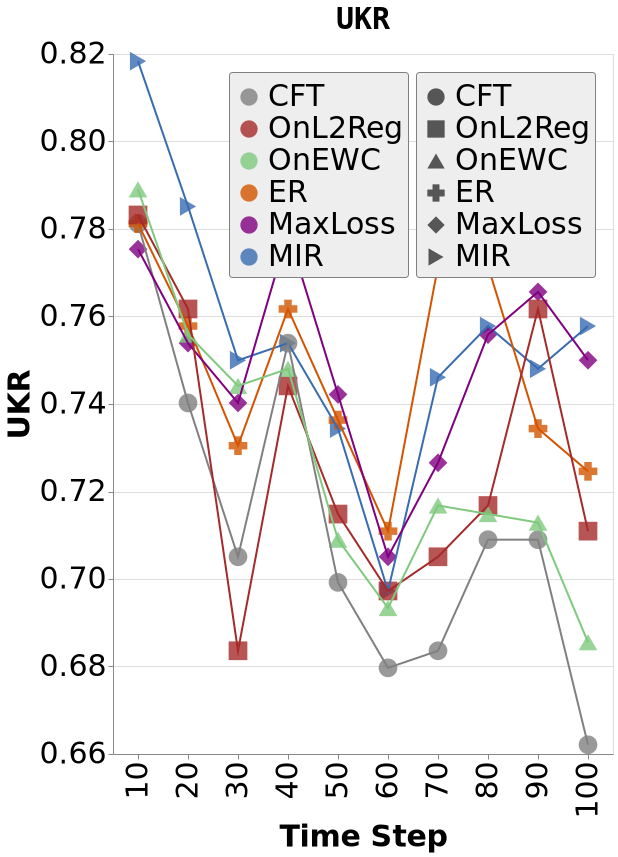
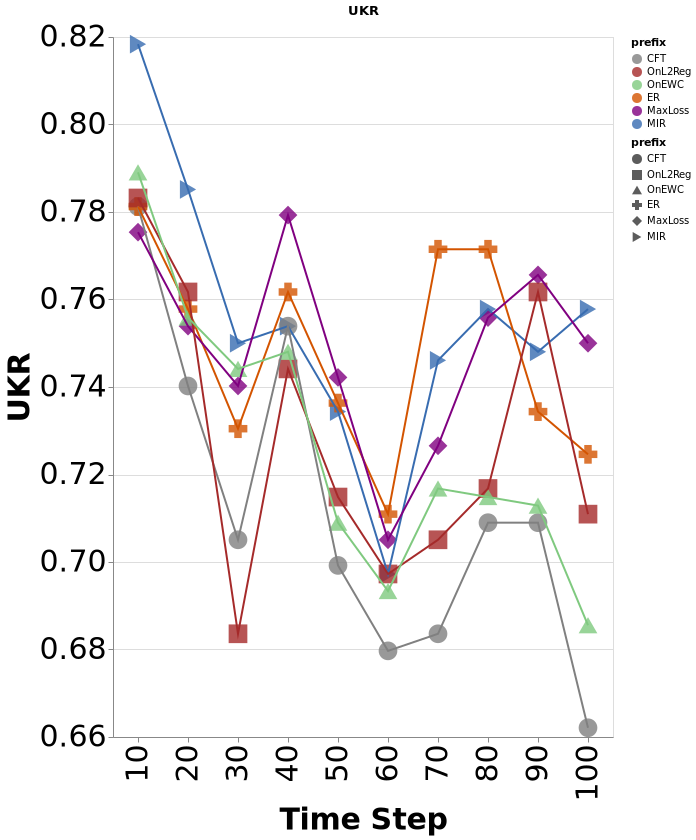
change figures

diff --git a/experiments/report_curves.py b/experiments/report_curves.py
@@ -56,7 +56,7 @@ all_data['OEC'] = all_data.drop(columns=["timecode", "EFR", "SR", "Overall"]).me
 color_dom = ["CFT", "OnL2Reg", "OnEWC",  "ER", "MaxLoss", "MIR"]
 color_range = ['gray', 'brown',  '#7fc97f', '#D35400', 'purple', '#386cb0']
 
-fig = draw_curve(df=all_data[all_data["UKR"].notnull()], fig_title=f"UKR", y_scale=[0.66, 0.82],  x_key="timecode:O", y_key="UKR:Q", y_title="UKR", height=700, width=500, orient="top-right", color_dom=color_dom, color_range=color_range)
+fig = draw_curve(df=all_data[all_data["UKR"].notnull()], fig_title=f"UKR", y_scale=[0.66, 0.82],  x_key="timecode:O", y_key="UKR:Q", y_title="UKR", height=700, width=500, orient="none", color_dom=color_dom, color_range=color_range)
 fig.save('figures/curves/UKRs.png', scale_factor=3.0)
 
 fig = draw_curve(df=all_data[all_data["OKR"].notnull()], fig_title=f"OKR", y_scale=[0.77, 0.96],  x_key="timecode:O", y_key="OKR:Q", y_title="OKR", height=700, width=500, orient="none", color_dom=color_dom, color_range=color_range)
